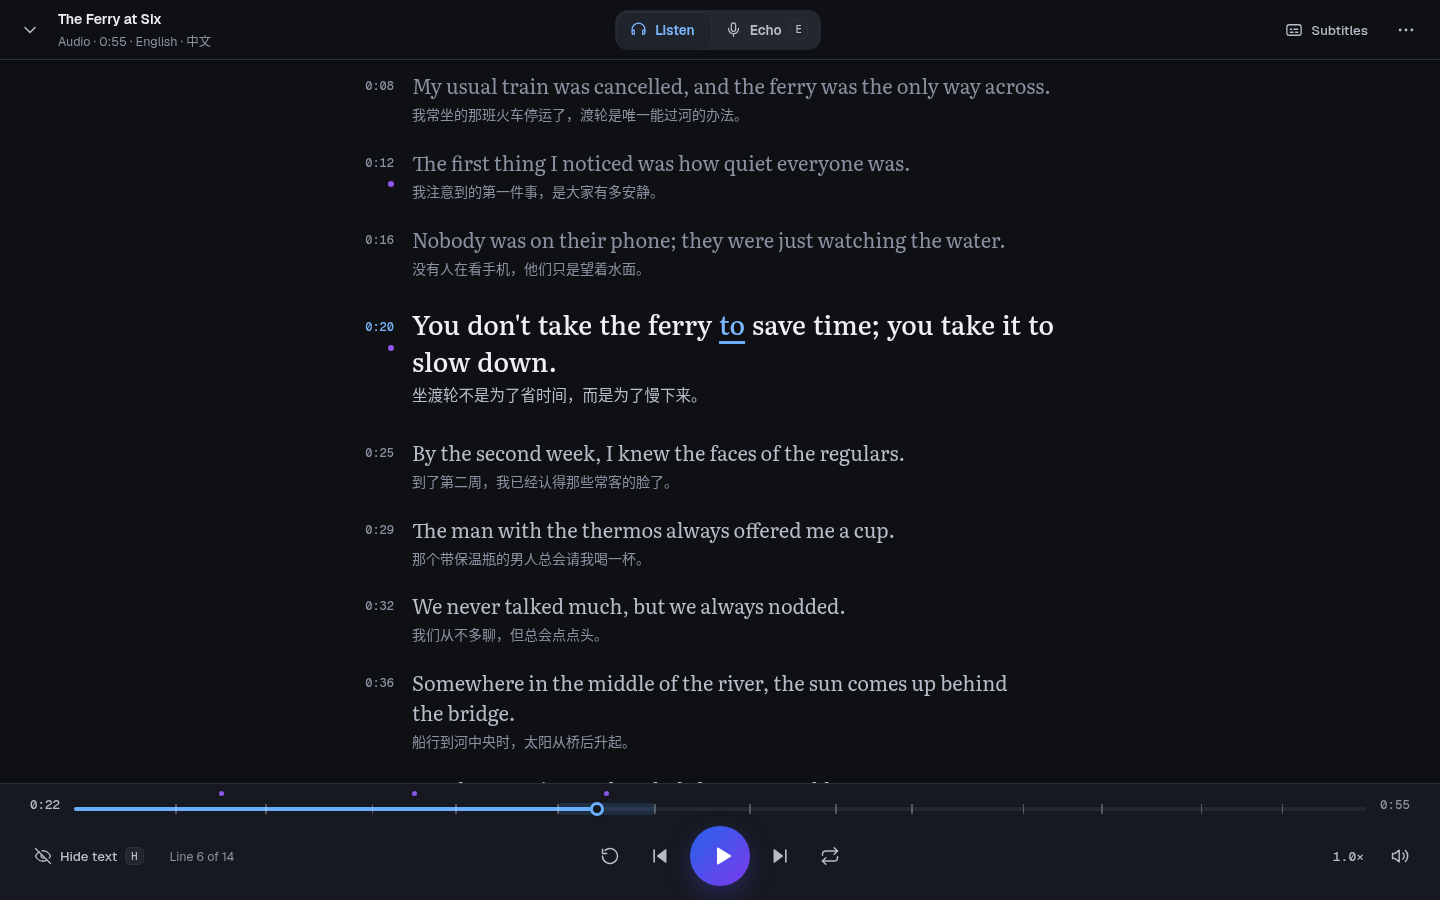
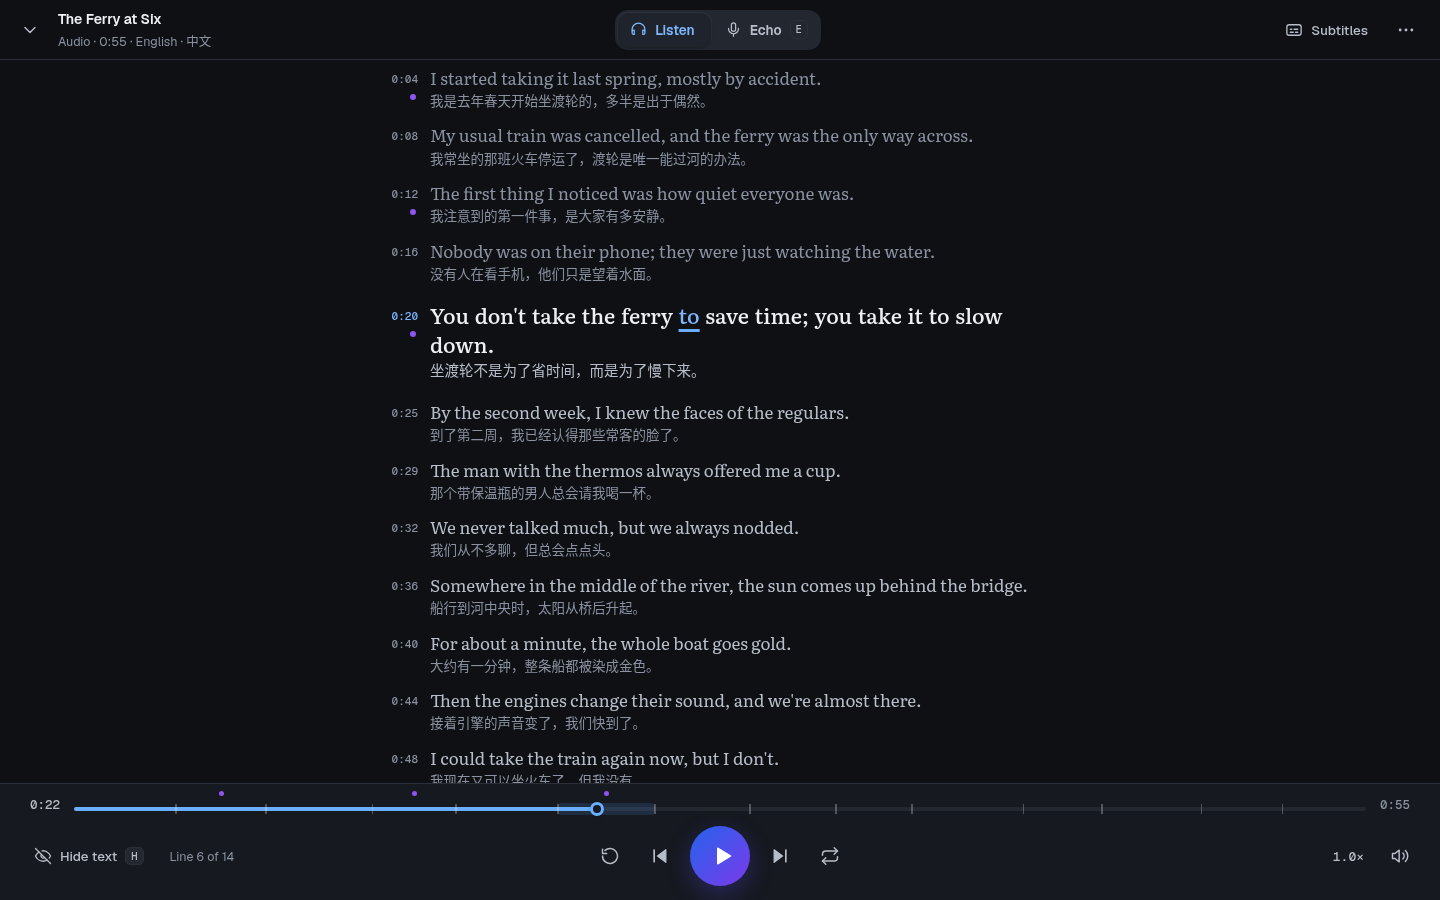
docs(duet): A1 re-sync boards from the canvas and re-render
All 76 boards pulled from the canvas; DYoutubeDark was the only board
beyond Main / Phone that differed. tool/render_design_boards.mjs
re-rendered everything; the 20 player renders changed (density pass).

diff --git a/docs/design/duet/boards/DYoutubeDark.dc.html b/docs/design/duet/boards/DYoutubeDark.dc.html
@@ -12,7 +12,7 @@
 </helmet>
 <div style="height: 100vh; display: flex; flex-direction: column">
 <dc-import name="Main" theme="dark" media="youtube" mode="echo" sel="3" pitch="true" ipa="false" hint-size="100%,100vh"></dc-import>
-</div>
+<p style="margin: 0">ji</p></div>
 </x-dc>
 <script type="text/x-dc" data-dc-script data-props='{"$preview":{"width":1440,"height":900}}'>
 class Component extends DCLogic {

diff --git a/docs/design/duet/STATUS.md b/docs/design/duet/STATUS.md
@@ -18,8 +18,8 @@ Tracker for [PLAN.md](PLAN.md). Update your row in the same PR that does the wor
 | 3 · Player | 14 | 9 |
 | 4 · App screens | 11 | 0 |
 | 5 · Cleanup, proof, merge | 6 | 3 |
-| A · Audit verification | 6 | 1 |
-| **Total** | **50** | **22** |
+| A · Audit verification | 6 | 2 |
+| **Total** | **50** | **23** |
 
 ## Decisions
 
@@ -80,7 +80,7 @@ Questions a board raises that the rules can't settle. A task gated by an open de
 | D3.11 | Player states (empty, generating, locate, loading, errors) | `DEmpty`, `DGenerating`, `DLocate` | D3.1 | done | | | Empty state = TRANSCRIPT overline + Literata 38 + action rows (onboarding anchors kept); locate keeps the hash check with the ink Choose file; loading/errors already ride the D3.1 top bar |
 | D3.12 | Share poster | `Poster` | D3.6 | done | | | Quote + stats on Literata (italic quote, 600 figures); Playfair Display files + test entries deleted; dark-ground/logo-plane layout kept |
 | D3.13 | Player pass: dark, compact, video, phone | `DDark`, `DYoutubeDark`, `DCompact`, `DVideo`, `PVideo`, `PVideoEcho`, `PDark` | D3.1–D3.12 | todo | | | Gallery compare clean at Main/DDark/DCompact (Listen lens + dock + ruler match the boards); docked margin reflow ≥1100 and Windows YouTube/WebView2 manual checks remain for D5.5 platform QA **Reopened 2026-10-06 (AUDIT.md)**: the earlier compare excluded the top bar and rendered with the phone layout; redo after AUDIT A2. |
-| D3.14 | Player density pass (canvas revision of `Main` + `Phone`) | `Main`, `Phone`, all `D*` / `P*` player states | D3.1–D3.13 | review | | | Boards re-synced from the canvas (2026-10-06). Listen 21/17 (video 17/15, phone 20/16), gutter 44 (video 36, phone 8px dot column with the active time above the line), Echo loop clamps 22–28 / 20–24 / 19 (video 20/18, phone 23/20), brackets 20px arms, loop pad 24/28/24/66, takes chip 36 + score 26, lens 16/15/14; margin 340, Listen 700 / Echo 760 (audio layout now widens in Echo), video transcript column clamp(300, 28 %, 380) as the default split. Sizes centralised in `TranscriptLensMetrics`. `renders/Main.webp`, `Phone.webp` and the player state renders still show the pre-density boards — re-export from the canvas. Assessment-margin sizes (overall 56) ride D3.8 |
+| D3.14 | Player density pass (canvas revision of `Main` + `Phone`) | `Main`, `Phone`, all `D*` / `P*` player states | D3.1–D3.13 | review | | | Boards re-synced from the canvas (2026-10-06). Listen 21/17 (video 17/15, phone 20/16), gutter 44 (video 36, phone 8px dot column with the active time above the line), Echo loop clamps 22–28 / 20–24 / 19 (video 20/18, phone 23/20), brackets 20px arms, loop pad 24/28/24/66, takes chip 36 + score 26, lens 16/15/14; margin 340, Listen 700 / Echo 760 (audio layout now widens in Echo), video transcript column clamp(300, 28 %, 380) as the default split. Sizes centralised in `TranscriptLensMetrics`. Renders refreshed by A1. Assessment-margin sizes (overall 56) ride D3.8 |
 
 ### Phase 4 · App screens
 
@@ -102,7 +102,7 @@ Questions a board raises that the rules can't settle. A task gated by an open de
 
 | ID | Task | Boards | Depends | Status | Owner | PR | Notes |
 |---|---|---|---|---|---|---|---|
-| A1 | Re-render boards from the canvas | all | — | todo | | | `tool/render_design_boards.mjs` with the canvas runtime; renders predate the D3.14 density revision |
+| A1 | Re-render boards from the canvas | all | — | done | | | All 76 boards re-synced (only `DYoutubeDark` differed beyond `Main` / `Phone`) and re-rendered; the renderer is deterministic, so only the 20 player renders changed |
 | A2 | Player gallery on the real expanded-player body | all `D*` / `P*` player boards | — | todo | | | `ExpandedPlayerChromeBody` (top bar + layout + dock); translation, IPA, takes, video fixtures |
 | A3 | Board-matching fixtures | Home, Library, Discover, Vocabulary, Credits, Subscription, Sync | — | todo | | | Continue-practice resume, library rows, feed + channels, vocab statuses, credit log, Free plan, sync queue |
 | A4 | Harness gaps | Craft, SignIn, Review, dialogs | — | todo | | | Fake `record` channel, signed-out auth, review session, dialog openers, pushed subpages for back buttons |
